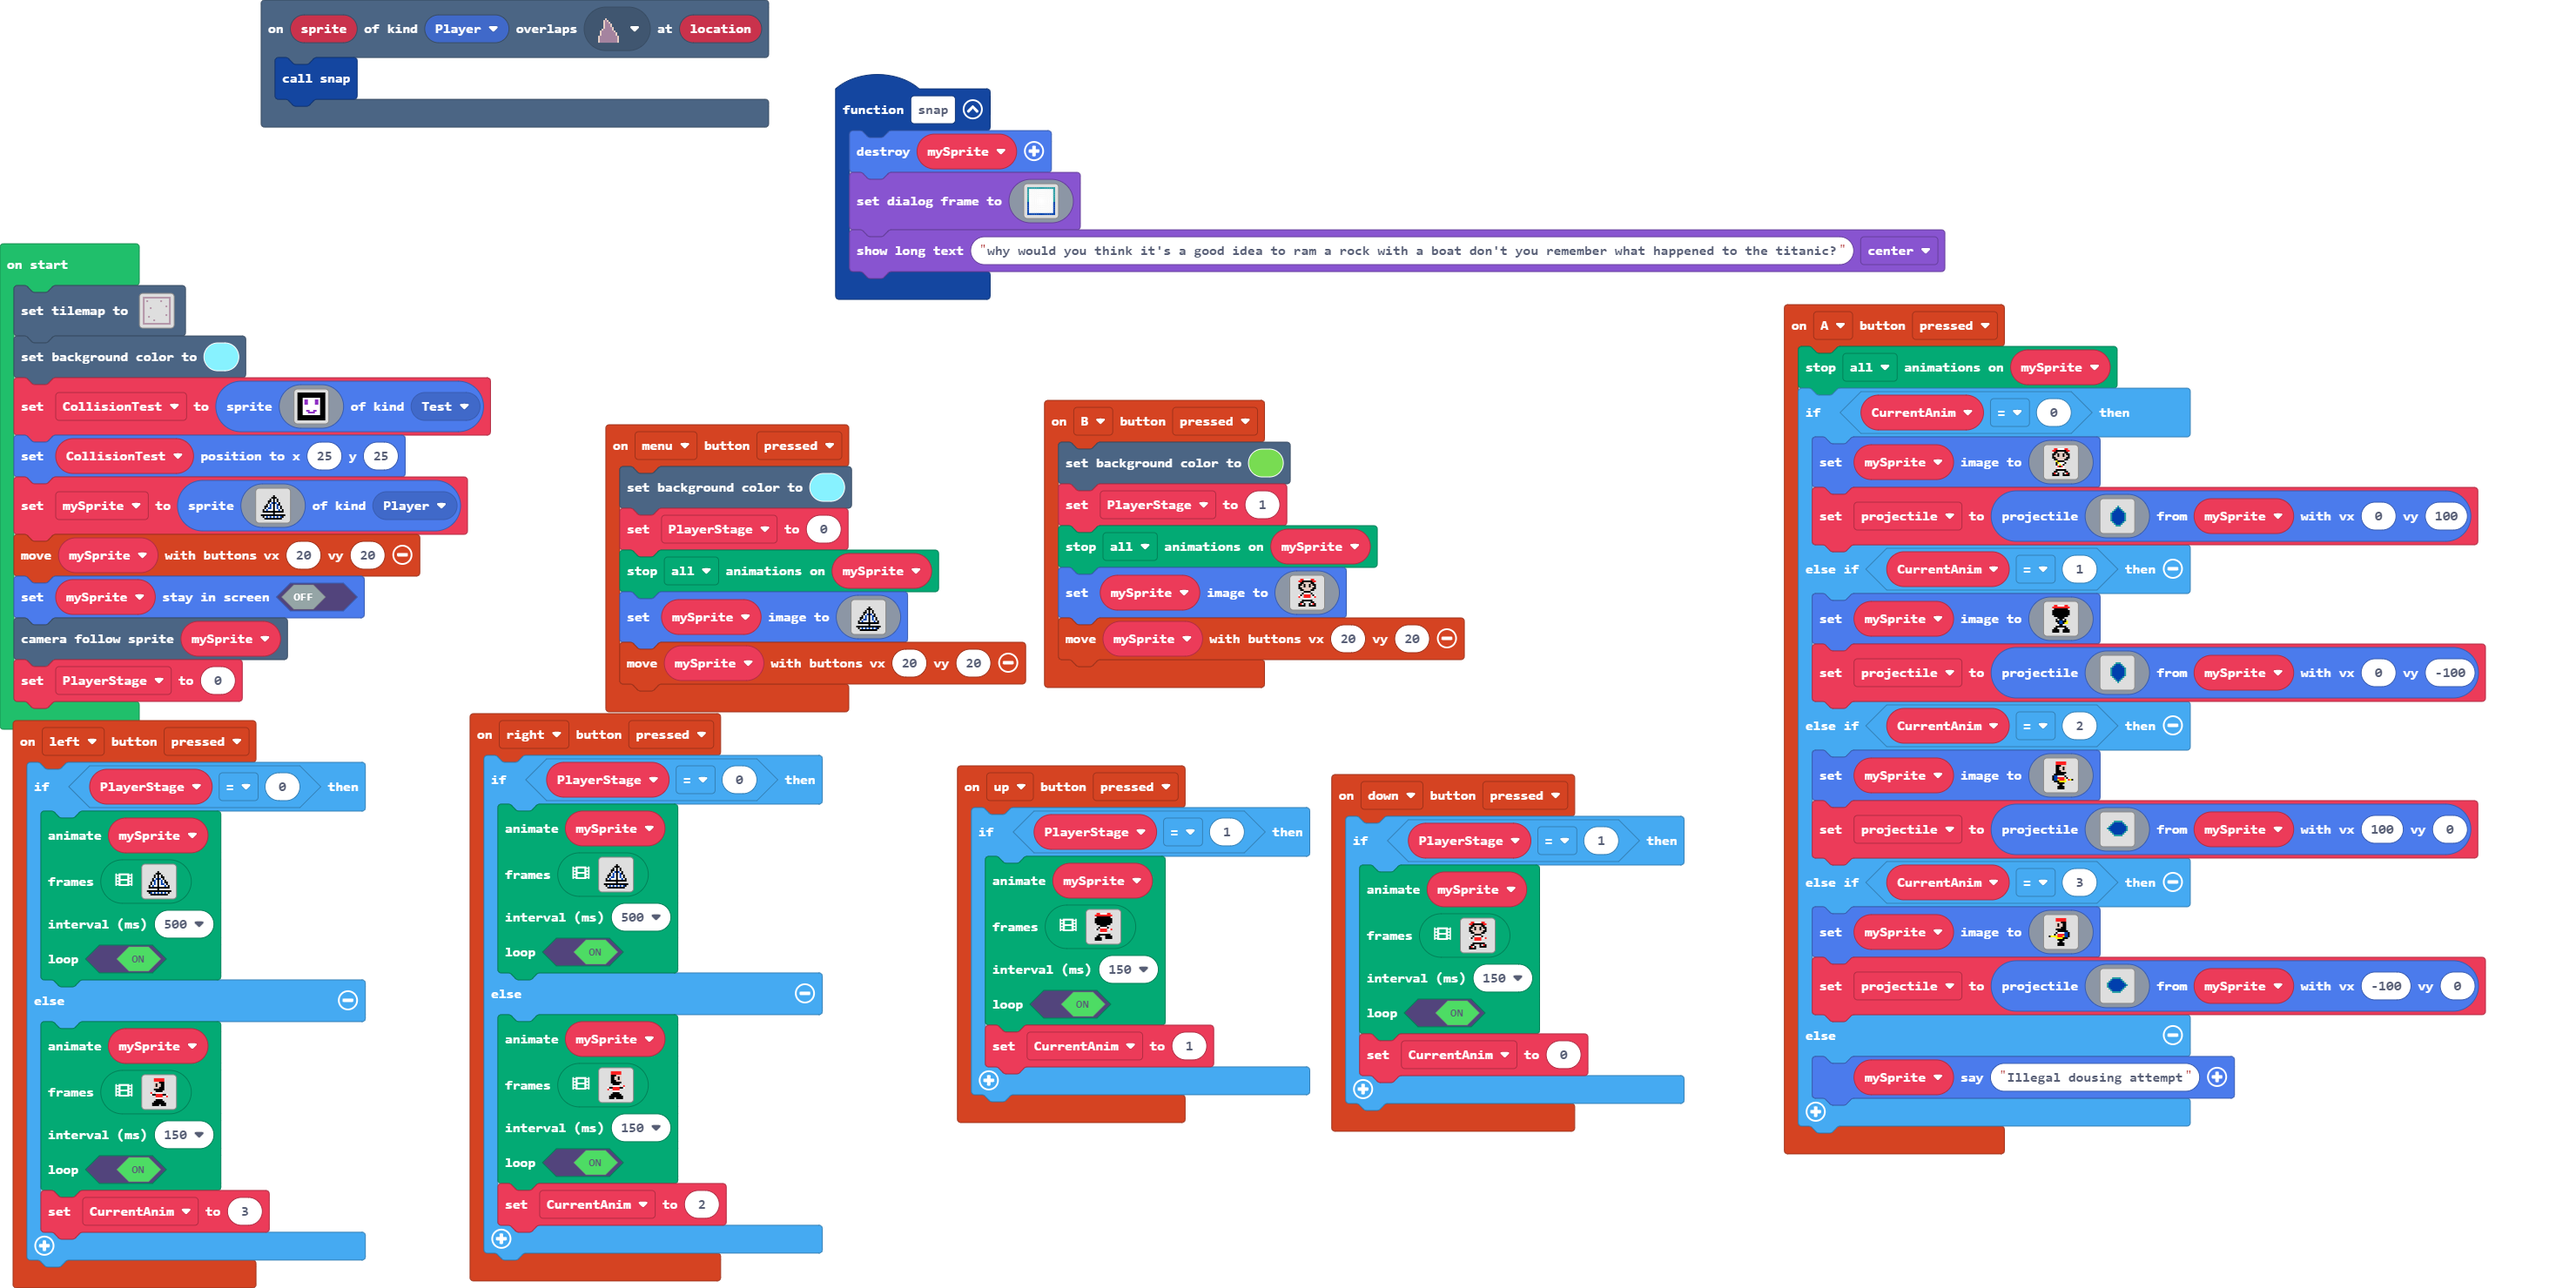
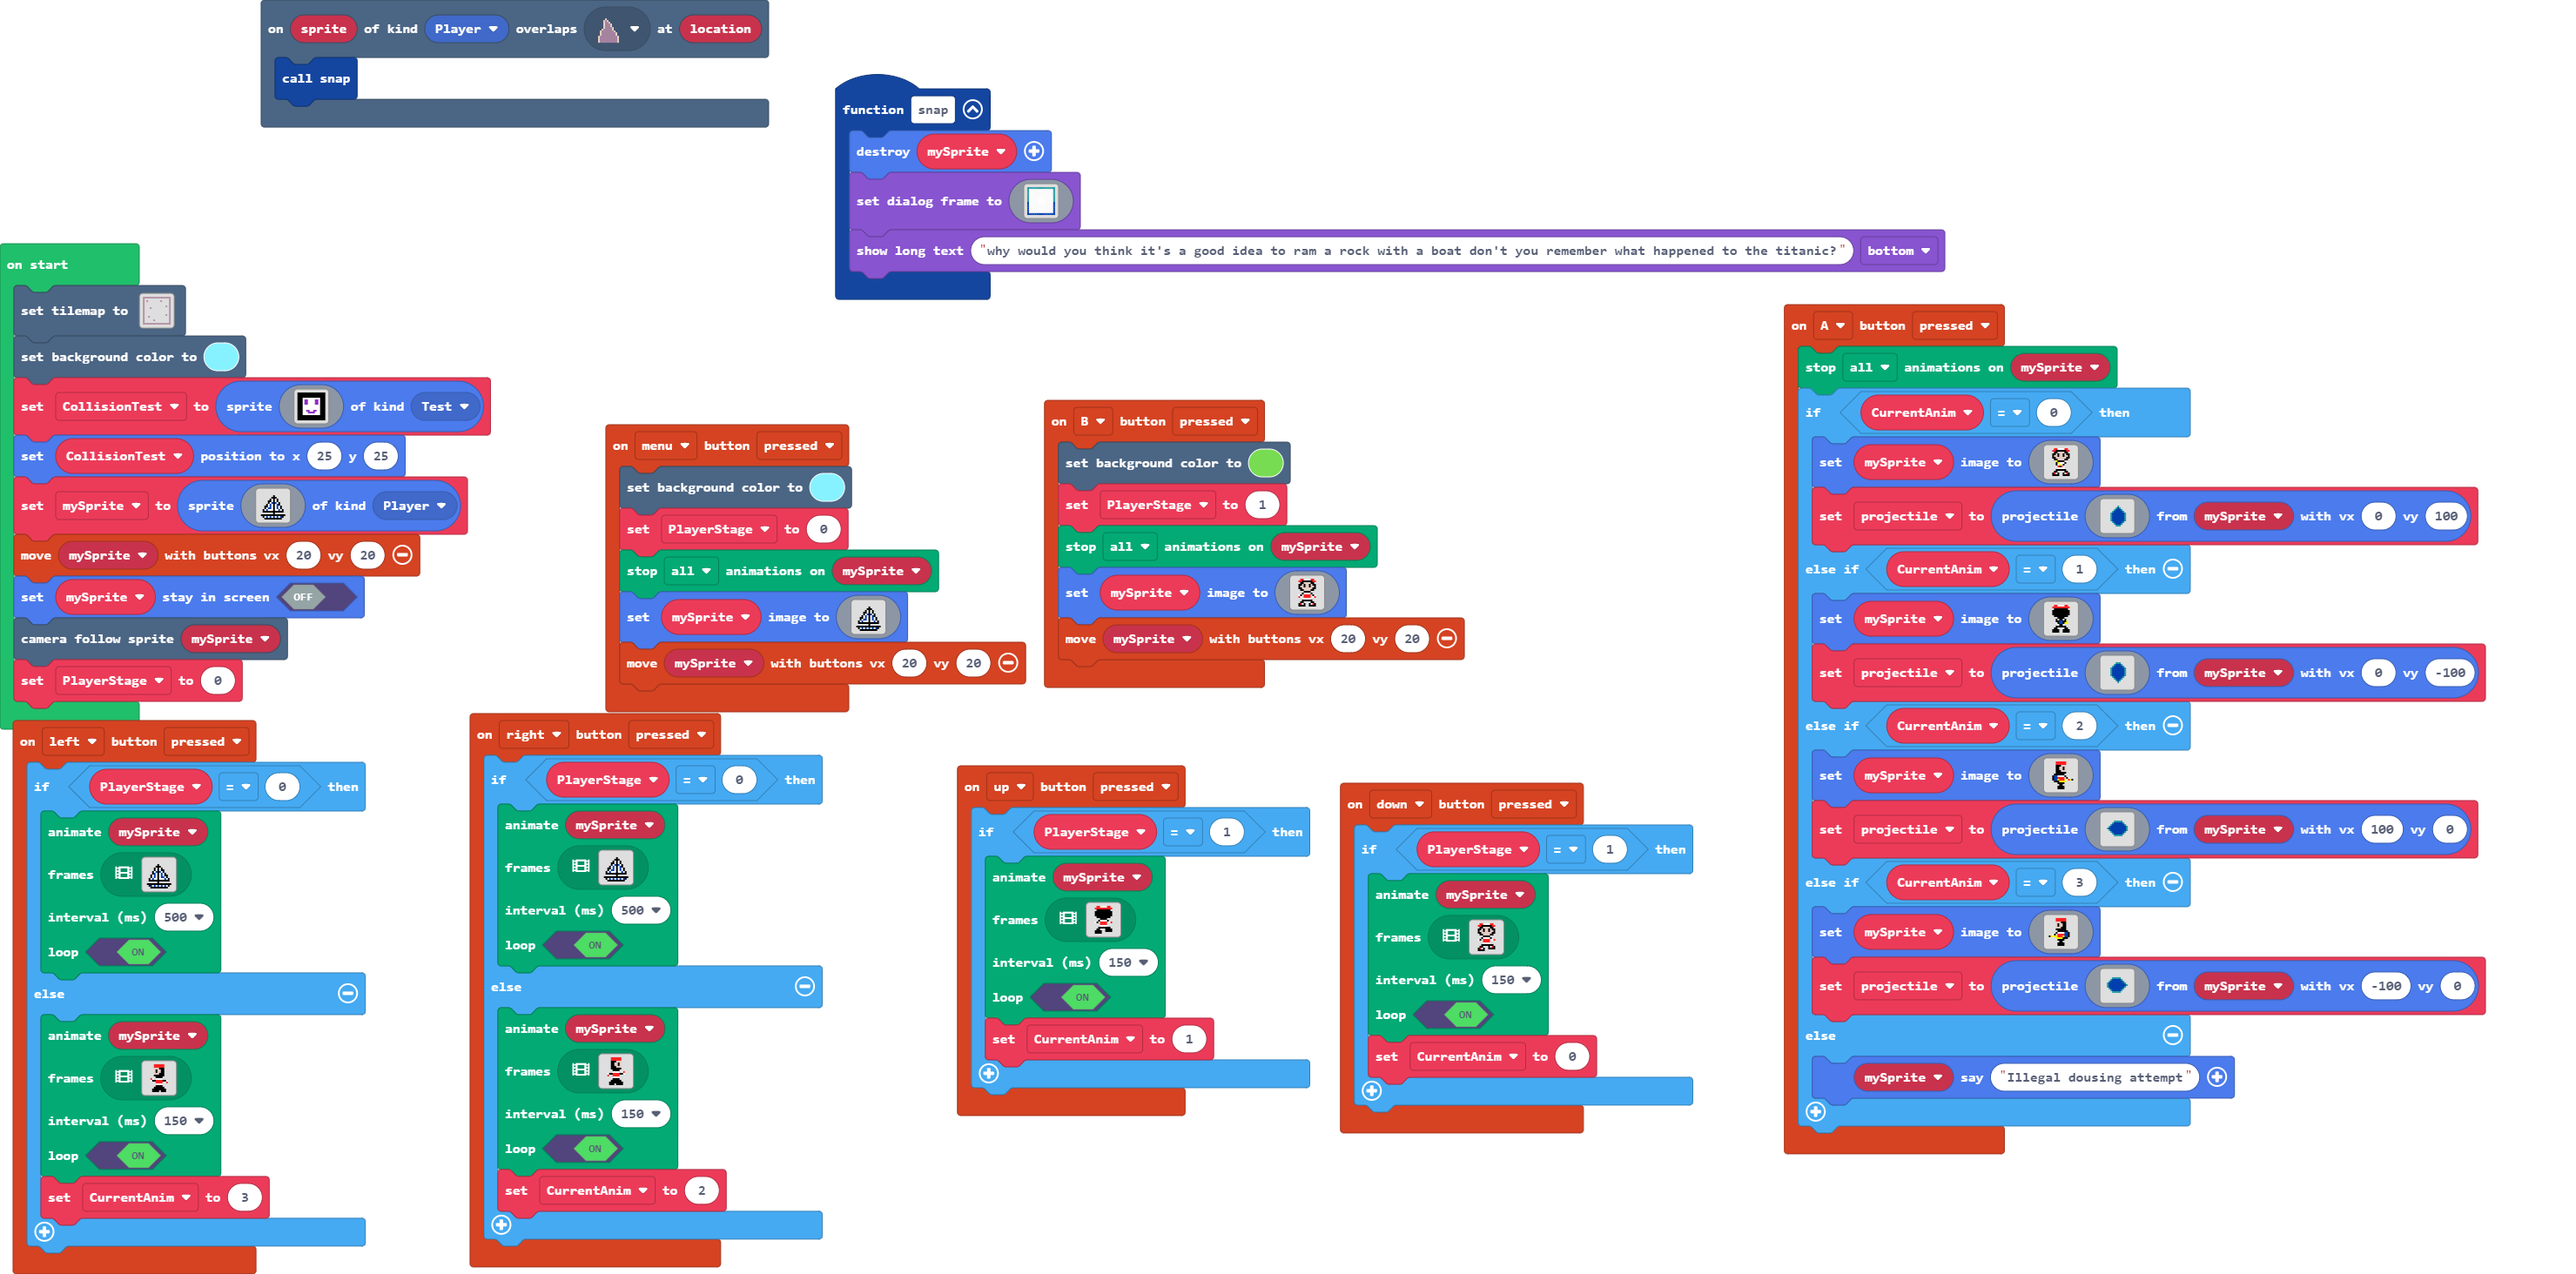
testtextbox is bottom

Changed region(s): [[0.342, 0.0615, 0.9638, 0.9221], [0.1865, 0.3074, 0.5907, 0.9836], [0.0, 0.1844, 0.1865, 0.9836]]

diff --git a/main.ts b/main.ts
@@ -87,7 +87,7 @@ controller.down.onEvent(ControllerButtonEvent.Pressed, function () {
 function snap () {
     mySprite.destroy()
     game.setDialogFrame(assets.image`Textbox`)
-    game.showLongText("why would you think it's a good idea to ram a rock with a boat don't you remember what happened to the titanic?", DialogLayout.Center)
+    game.showLongText("why would you think it's a good idea to ram a rock with a boat don't you remember what happened to the titanic?", DialogLayout.Bottom)
 }
 controller.menu.onEvent(ControllerButtonEvent.Pressed, function () {
     scene.setBackgroundColor(9)
